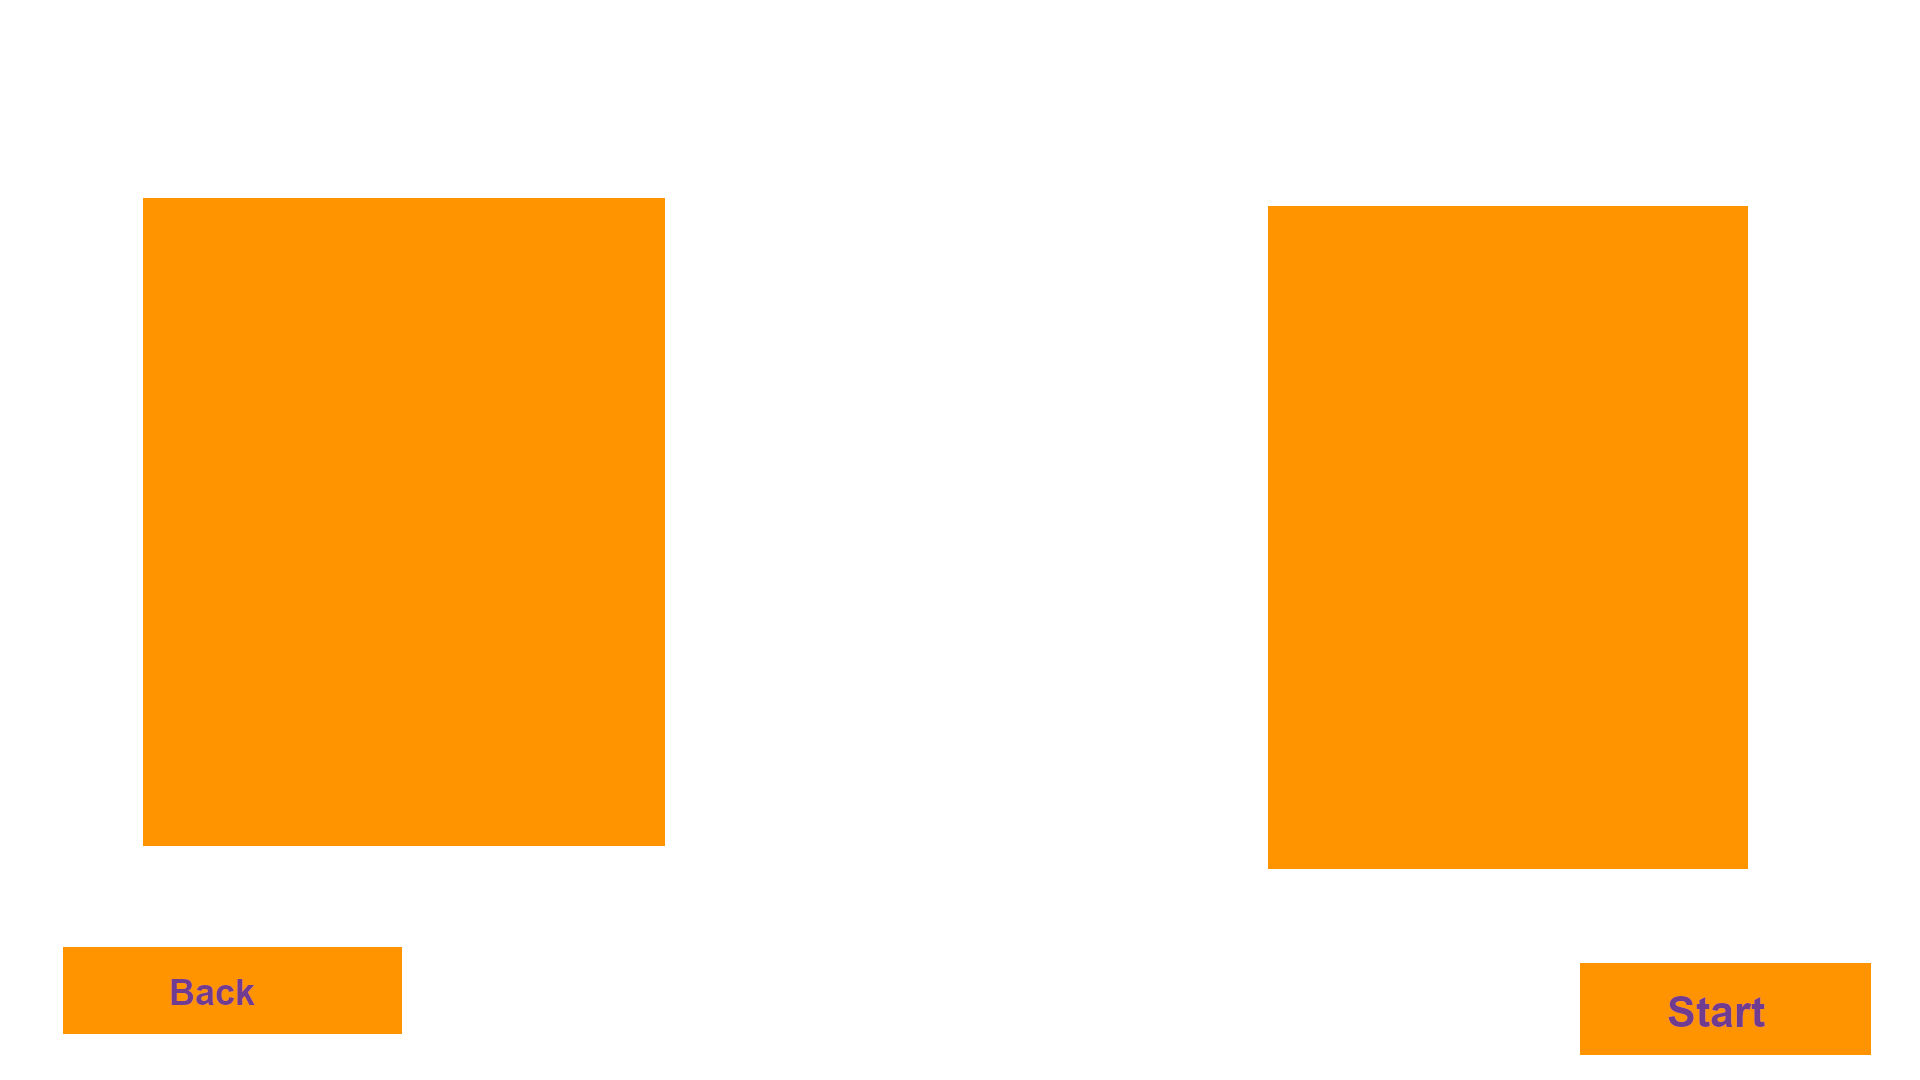
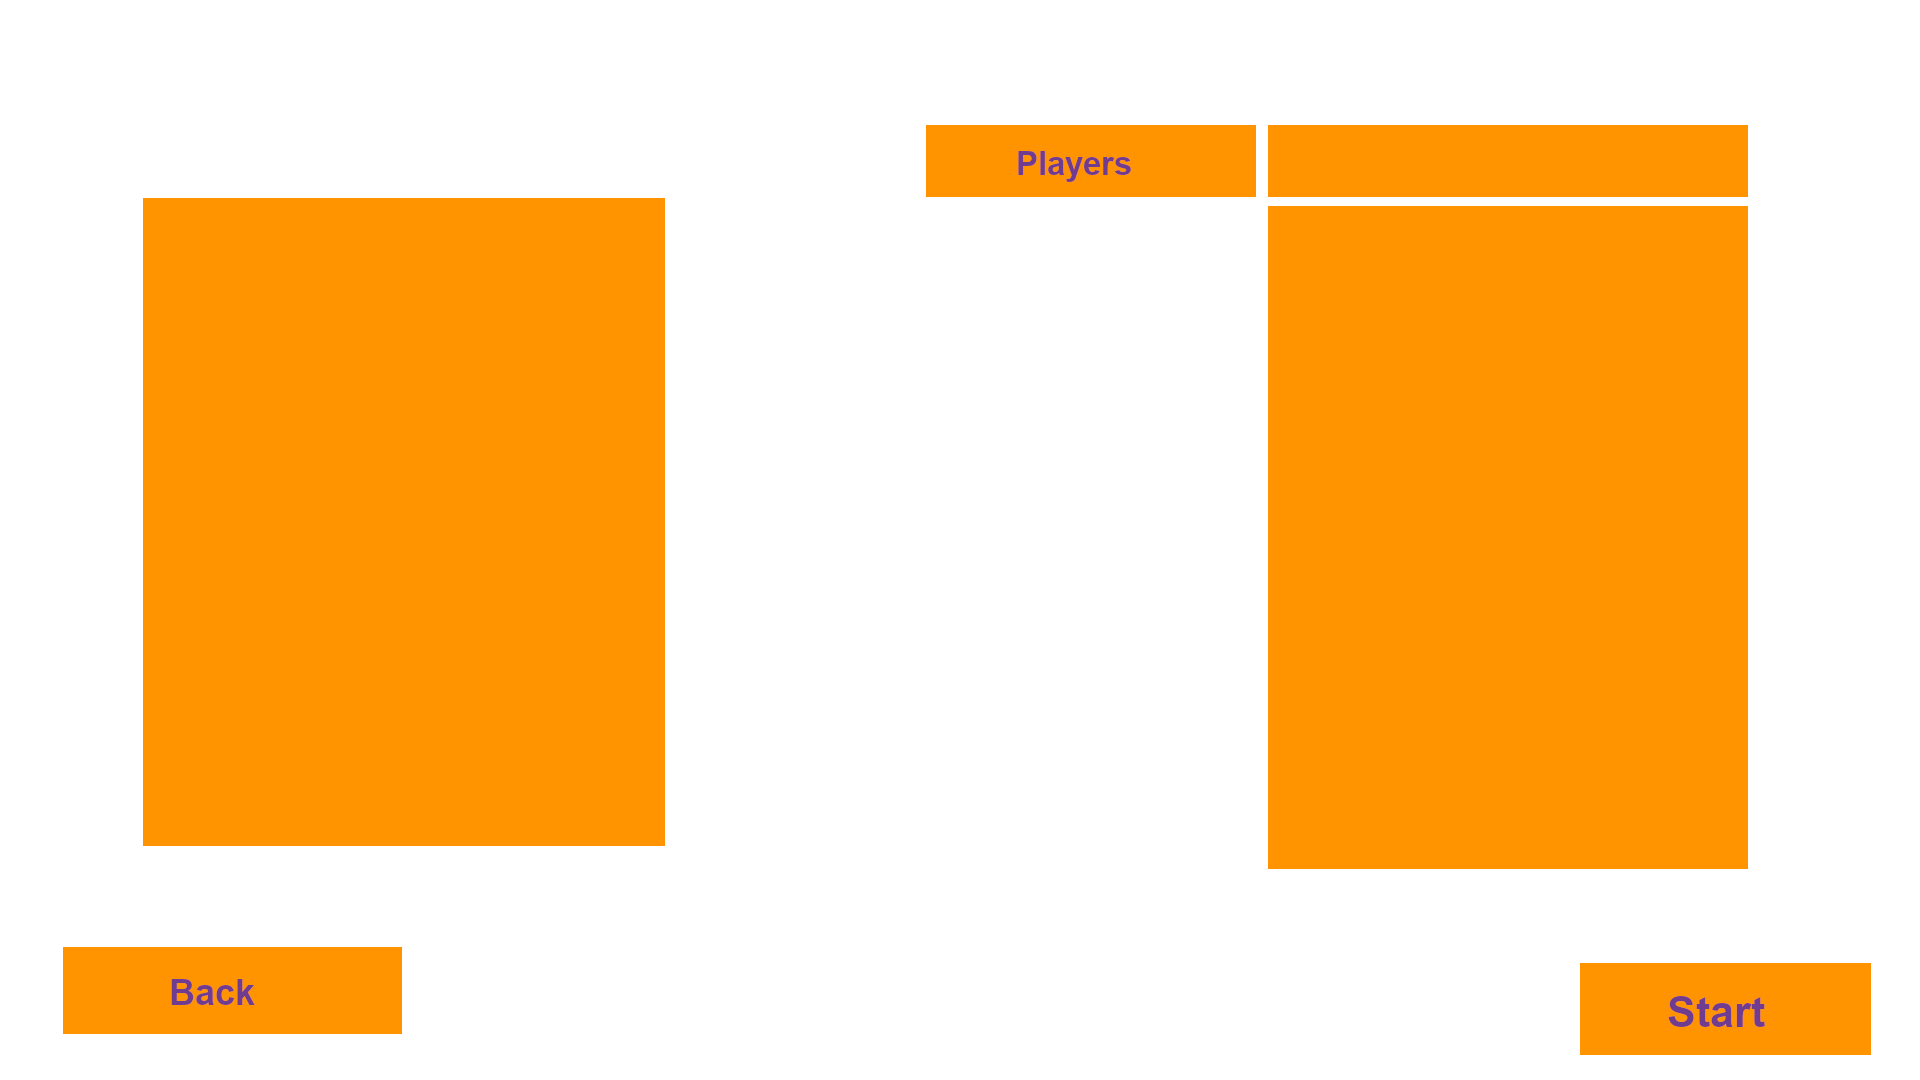
:))

Changed region(s): [[0.4688, 0.0917, 0.9375, 0.1833]]

diff --git a/Main.cpp b/Main.cpp
@@ -13,6 +13,7 @@
 #include "Entity.hpp"
 #include "TwitchIntegration.hpp"
 #include "KillFeed.hpp"
+#include "Playerlist.hpp"
 
 
 #include "time.h"
@@ -342,10 +343,14 @@ int main(int argc, char** argv) {
 					camera_move(struct vector3<float>(-sdl_event.motion.xrel * zoom_sensitivity, -sdl_event.motion.yrel * zoom_sensitivity, 0.0f));
 					camera_get_crop(camera_crop);
 				}
+			} else {
+				if (sdl_event.type == SDL_MOUSEWHEEL) {
+					ui_process_scroll(&bf_rw, mouse_position[0], mouse_position[1], sdl_event.wheel.y);
+				}
 			}
 
 			if (sdl_event.type == SDL_KEYDOWN) {
-				ui_process_keys(sdl_event.key.keysym.sym, &bf_rw);
+				ui_process_keys(&bf_rw, mouse_position[0], mouse_position[1], sdl_event.key.keysym.sym);
 			}
 
 			if (sdl_event.type == SDL_MOUSEMOTION) {
@@ -392,7 +397,7 @@ int main(int argc, char** argv) {
 				bit_field_invalidate_bulk(&bf_output, output_position, output_size_in_bf);
 				bit_field_update_device(&bf_output, 0);
 			}
-			launch_draw_ui_kernel(bf_assets.device_data[0], u.background_position, ui_fonts_position, bf_output.device_data[0], output_position, resolution[0], resolution[1], 4, bf_rw.device_data[0]);
+			launch_draw_ui_kernel(bf_assets.device_data[0], u.background_position, ui_fonts_position, bf_output.device_data[0], output_position, resolution[0], resolution[1], 4, bf_rw.device_data[0], tick_counter);
 		}
 
 		bit_field_update_host(&bf_output, 0);
@@ -776,7 +781,25 @@ int main(int argc, char** argv) {
 				}
 			} else {
 				if (ui_active == "lobby" && irc_started) {
-					twitch_update_players();
+					twitch_update_players(&bf_rw);
+
+					struct ui_element* uies = (struct ui_element*) &bf_rw.data[ui_elements_position["lobby"]];
+					int uc;
+					for (uc = 0; uc < uis["lobby"].ui_elements.size(); uc++) {
+						if (uis["lobby"].ui_elements[uc].name == "playercount") {
+							struct ui_element* uie = &uies[uc];
+							stringstream ss_pc;
+							ss_pc << players.size();
+							for (int ca = 0; ca < ss_pc.str().length(); ca++) {
+								uie->value[ca] = ss_pc.str().at(ca);
+							}
+							break;
+						}
+					}
+					int size = sizeof(struct ui_element);
+					unsigned int size_in_bf = (unsigned int)ceilf(size / (float)sizeof(unsigned int));
+					bit_field_invalidate_bulk(&bf_rw, ui_elements_position["lobby"] + uc * size_in_bf, size_in_bf);
+
 					printf("player_count %i\n", players.size());
 				}
 				if (ui_active == "lobby" && !irc_started) {
@@ -816,8 +839,22 @@ int main(int argc, char** argv) {
 							}
 							max_bits_per_game = stoi(bits_);
 						}
+						if (uis["settings"].ui_elements[uc].name == "max_players") {
+							string max_players_ = "";
+							for (int ca = 0; ca < 50; ca++) {
+								if (uis["settings"].ui_elements[uc].value[ca] != '\0') {
+									max_players_ += uis["settings"].ui_elements[uc].value[ca];
+								}
+							}
+							players_max = stoi(max_players_);
+							printf("setting max_players to %i\n", players_max);
+						}
 					}
 					if (twitch_name != "") {
+						playerlist_init(&bf_rw);
+
+						ui_value_as_config(&bf_rw, "lobby", "players", 0, playerlist_pos);
+
 						stringstream ss;
 						ss << rand();
 						string cache_dir = "cache\\" + ss.str();

diff --git a/TwitchIntegration.cpp b/TwitchIntegration.cpp
@@ -5,6 +5,7 @@
 #include <vector>
 #include "Util.hpp"
 #include "Player.hpp"
+#include "Playerlist.hpp"
 #include <sstream>
 
 string cache_dir = "";
@@ -21,7 +22,7 @@ void twitch_terminate_irc() {
     TerminateProcess((HANDLE)irc_process, exit_code);
 }
 
-void twitch_update_players() {
+void twitch_update_players(struct bit_field *bf_rw) {
     string file_path = cache_dir + "\\players.txt";
     HANDLE hFile = CreateFile(TEXT(file_path.c_str()), // open One.txt
         GENERIC_READ,             // open for reading
@@ -53,7 +54,10 @@ void twitch_update_players() {
         while ((fpos = file_content.find('\n', pos)) != string::npos) {
             string name = file_content.substr(pos, fpos - pos);
             name = trim(name);
-            player_add(name, PT_HOPE, UINT_MAX);
+            if (players.size() < players_max) {
+                player_add(name, PT_HOPE, UINT_MAX);
+                playerlist_add(bf_rw, name.c_str());
+            }
             pos = fpos + 1;
         }
     }
@@ -61,7 +65,12 @@ void twitch_update_players() {
     for (int i = 0; i < 100; i++) {
         stringstream ss;
         ss << players.size();
-        player_add("mur1_" + ss.str(), PT_HOPE, UINT_MAX);
+        string nnnn = "mur1_" + ss.str();
+        if (i % 2 == 0) nnnn += "__________________";
+        if (players.size() < players_max) {
+            player_add(nnnn, PT_HOPE, UINT_MAX);
+            playerlist_add(bf_rw, nnnn.c_str());
+        }
     }
     
 }

diff --git a/UI.hpp b/UI.hpp
@@ -52,14 +52,14 @@ extern map<string, struct ui>  uis;
 extern map<string,unsigned int> ui_elements_position;
 extern unsigned int				ui_fonts_position;
 
-void launch_draw_ui_kernel(const unsigned int* bf_assets_data, const unsigned int background_position, const unsigned int font_position, unsigned int* bf_output_data, const unsigned int output_position, const unsigned int width, const unsigned int height, const unsigned int channels, const unsigned int* bf_rw_data);
+void launch_draw_ui_kernel(const unsigned int* bf_assets_data, const unsigned int background_position, const unsigned int font_position, unsigned int* bf_output_data, const unsigned int output_position, const unsigned int width, const unsigned int height, const unsigned int channels, const unsigned int* bf_rw_data, const unsigned int tick_counter);
 
 void ui_init(struct bit_field* bf_assets, struct bit_field *bf_rw);
 void ui_set_active(string name);
 
 void ui_process_click(unsigned int x, unsigned int y);
 bool ui_process_scroll(struct bit_field* bf_rw, unsigned int x, unsigned int y, int z);
-void ui_process_keys(unsigned int sdl_keyval_enum, struct bit_field* bf_rw);
+void ui_process_keys(struct bit_field* bf_rw, const unsigned int x, const unsigned int y, const unsigned int sdl_keyval_enum);
 
 void ui_value_as_config(struct bit_field* bf_rw, string ui_name, string element_name, int index, int value);
 

diff --git a/Playerlist.cpp b/Playerlist.cpp
@@ -1,0 +1,30 @@
+#include "Playerlist.hpp"
+
+#include "Player.hpp"
+
+int playerlist_count;
+int playerlist_pos;
+struct playerlist_element* playerlist;
+
+void playerlist_init(struct bit_field* bf_rw) {
+	int size = players.size() * sizeof(struct playerlist_element);
+	int size_in_bf = (int)ceilf(size / (float)sizeof(unsigned int));
+
+	playerlist_pos = bit_field_add_bulk_zero(bf_rw, size_in_bf) + 1;
+}
+
+void playerlist_add(struct bit_field* bf_rw, const char playername[50]) {
+	struct playerlist_element pes(playername);
+	struct playerlist_element* pe = (struct playerlist_element*) & bf_rw->data[playerlist_pos];
+
+	memcpy(&pe[playerlist_count], &pes, sizeof(struct playerlist_element));
+
+	int size = players.size() * sizeof(struct playerlist_element);
+	int size_in_bf = (int)ceilf(size / (float)sizeof(unsigned int));
+
+	bit_field_invalidate_bulk(bf_rw, playerlist_pos, size_in_bf);
+
+	playerlist_count++;
+
+	ui_value_as_config(bf_rw, "lobby", "players", 1, playerlist_count);
+}

diff --git a/Playerlist.hpp b/Playerlist.hpp
@@ -1,0 +1,34 @@
+#ifndef PLAYERLIST_HPP
+#define PLAYERLIST_HPP
+
+#include <vector>
+#include <utility>
+#include "UI.hpp"
+
+struct playerlist_element {
+    playerlist_element(const char s[50]) {
+        int cur_pos = 0;
+        value[cur_pos++] = '^';
+        for (int i = 0; i < 50; i++) {
+            if (s[i] == '\0') break;
+            value[cur_pos] = s[i];
+            cur_pos++;
+        }
+        value[cur_pos++] = '^';
+        for (int i = cur_pos; i < 52; i++) {
+            value[i] = '\0';
+        }
+    }
+    char value[52];
+};
+
+using namespace std;
+
+extern int playerlist_count;
+extern int playerlist_pos;
+extern struct playerlist_element* playerlist;
+
+void playerlist_init(struct bit_field* bf_rw);
+void playerlist_add(struct bit_field* bf_rw, const char playername[50]);
+
+#endif

diff --git a/KillFeed.hpp b/KillFeed.hpp
@@ -8,6 +8,7 @@
 struct kill_feed_element {
     kill_feed_element(char s[50], char v[50], bool storm) { 
         int cur_pos = 0;
+        value[cur_pos++] = '^';
         if (!storm) {
             for (int i = 0; i < 50; i++) {
                 if (s[i] == '\0') break;
@@ -26,11 +27,12 @@ struct kill_feed_element {
             value[cur_pos] = v[i];
             cur_pos++;
         }
-        for (int i = cur_pos; i < 103; i++) {
+        value[cur_pos++] = '^';
+        for (int i = cur_pos; i < 105; i++) {
             value[i] = '\0';
         }
     }
-    char value[103];
+    char value[105];
 };
 
 using namespace std;

diff --git a/Player.hpp b/Player.hpp
@@ -53,6 +53,8 @@ extern map<player_type, struct model>	player_models;
 extern map<string, struct player>		players;
 extern unsigned int						players_position;
 
+extern unsigned int						players_max;
+
 void player_models_init(struct bit_field* bf_assets);
 void player_add(string name, enum player_type pt, unsigned int entity_id);
 void player_type_change(string name, enum player_type pt);

diff --git a/Player.cpp b/Player.cpp
@@ -15,6 +15,8 @@ map<player_type, struct model>  player_models;
 unsigned int                    players_position;
 map<string, struct player>      players;
 
+unsigned int				    players_max = 0;
+
 void player_models_init(struct bit_field* bf_assets) {
     vector<string> model_cfgs = get_all_files_names_within_folder("./players", "*", "cfg");
     vector<struct model> pms, pms_sorted;

diff --git a/TwitchIntegration.hpp b/TwitchIntegration.hpp
@@ -3,12 +3,13 @@
 
 #include <string>
 #include "Main.hpp"
+#include "BitField.hpp"
 
 using namespace std;
 
 void twitch_launch_irc(string cache_dir_, string twitch_name);
 void twitch_terminate_irc();
-void twitch_update_players();
+void twitch_update_players(struct bit_field *bf_rw);
 void twitch_update_bits();
 
 #endif
